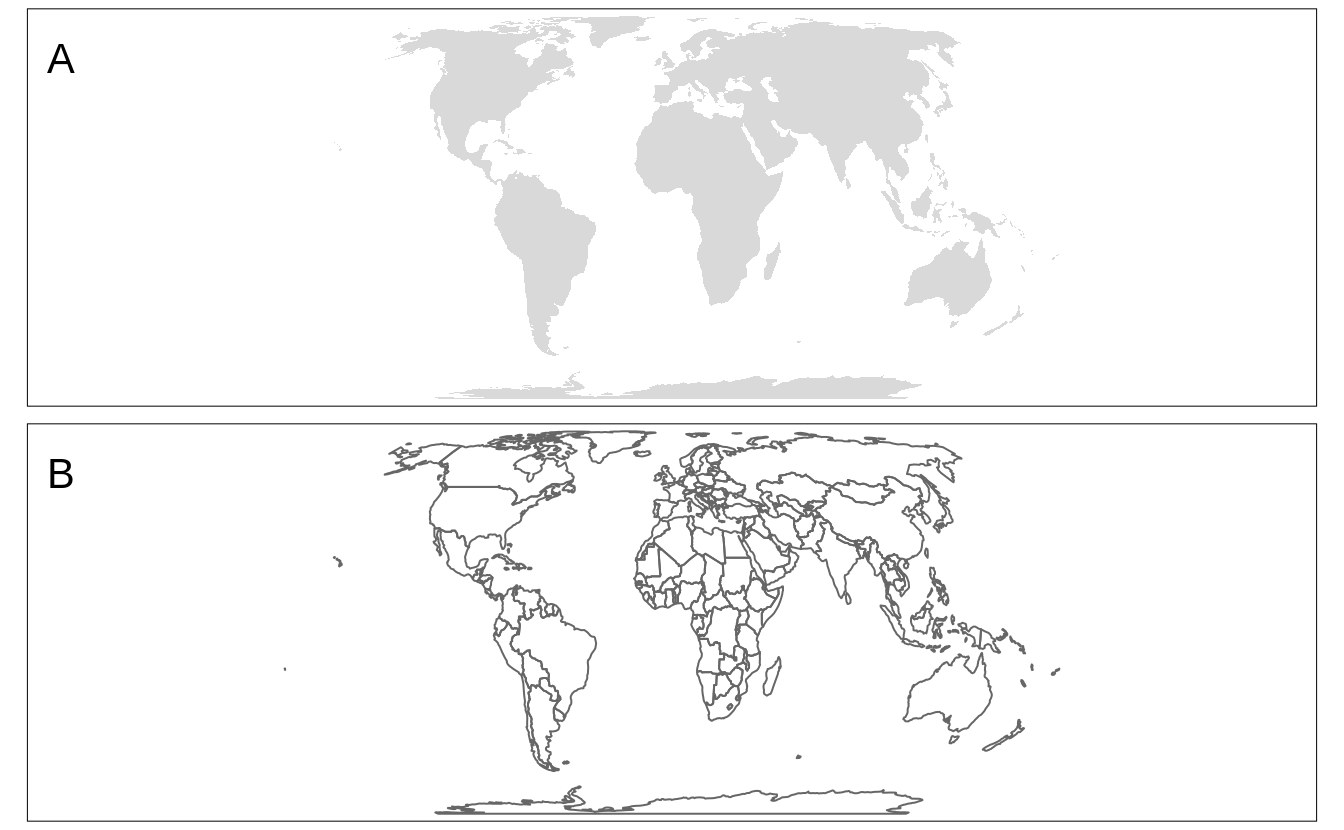
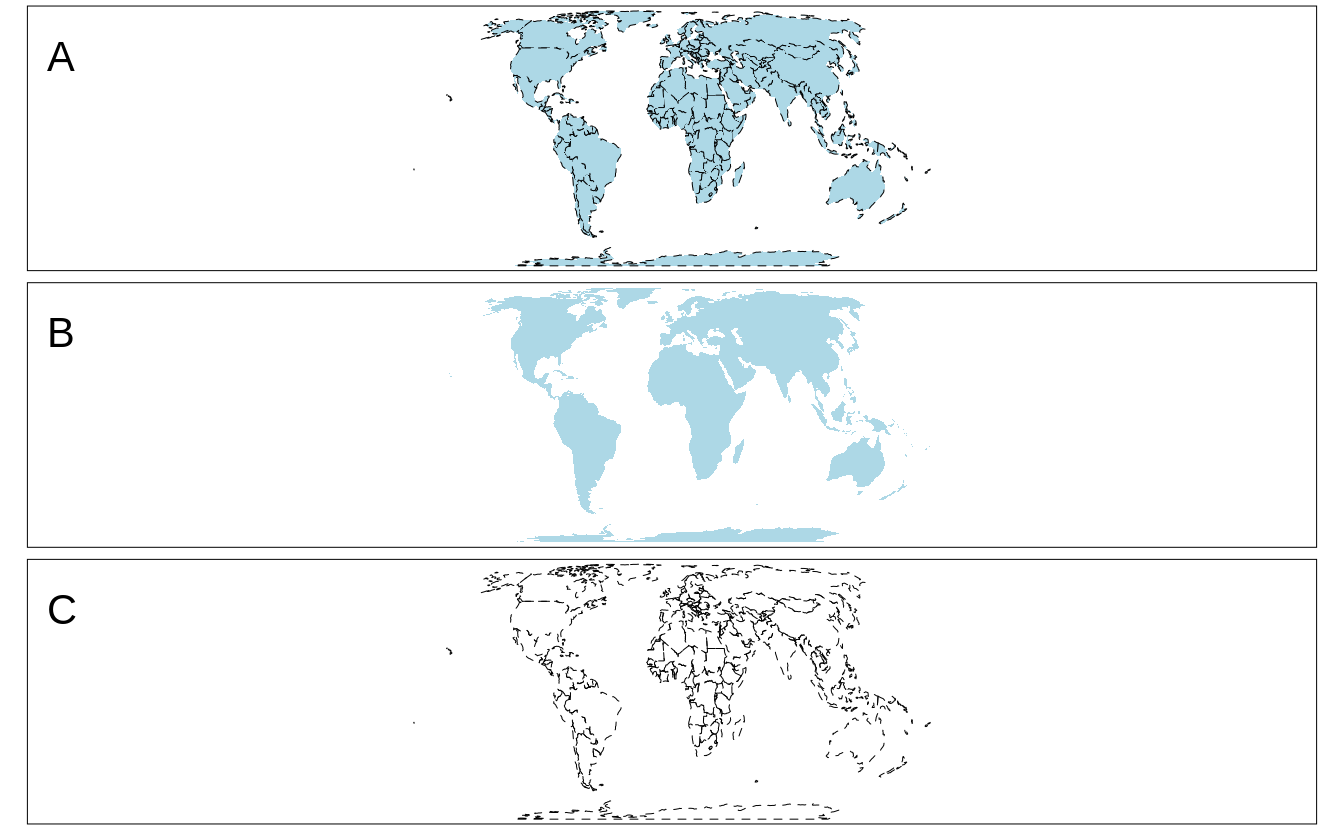
Deploy commit: completes polygon section 368f87c46eaf05076a46bfbb194fcc762384945e

diff --git a/layers.html b/layers.html
@@ -24,7 +24,7 @@
 <meta name="author" content="Martijn Tennekes, Jakub Nowosad" />
 
 
-<meta name="date" content="2020-11-23" />
+<meta name="date" content="2020-11-24" />
 
   <meta name="viewport" content="width=device-width, initial-scale=1" />
   <meta name="apple-mobile-web-app-capable" content="yes" />
@@ -439,34 +439,31 @@ Chapter <a href="visual-variables.html#visual-variables">6</a>, on the other han
 <span id="cb10-5"><a href="layers.html#cb10-5"></a>x =<span class="st"> </span><span class="kw">read_sf</span>(file_path)</span>
 <span id="cb10-6"><a href="layers.html#cb10-6"></a>x =<span class="st"> </span><span class="kw">st_transform</span>(x, <span class="dv">8857</span>)</span></code></pre></div>
 <p>The main function to visualize polygons is <code>tm_polygons()</code>.
-By default, as seen in Figure <a href="layers.html#fig:tmpolygons">5.1</a>:A, it plots areas of polygons in light gray (<code>gray85</code>) and polygons borders in slightly dark gray (<code>gray40</code>).
+By default, it plots areas of polygons in light gray (<code>gray85</code>) and polygons borders in slightly dark gray (<code>gray40</code>).
 <!--JN: where can I find the actual default color values in the code?--></p>
 <div class="sourceCode" id="cb11"><pre class="sourceCode r"><code class="sourceCode r"><span id="cb11-1"><a href="layers.html#cb11-1"></a><span class="kw">tm_shape</span>(x) <span class="op">+</span></span>
 <span id="cb11-2"><a href="layers.html#cb11-2"></a><span class="st">  </span><span class="kw">tm_polygons</span>()</span></code></pre></div>
-<p>Both, colors of areas (polygons’ fillings) and colors of borders can be modified using the <code>col</code> and <code>border.col</code> arguments (Figure <a href="layers.html#fig:tmpolygons">5.1</a>:B).</p>
+<p>Both, colors of areas (polygons’ fillings) and colors of borders can be modified using the <code>col</code> and <code>border.col</code> arguments (Figure <a href="layers.html#fig:tmpolygonsder">5.1</a>:A).</p>
 <div class="sourceCode" id="cb12"><pre class="sourceCode r"><code class="sourceCode r"><span id="cb12-1"><a href="layers.html#cb12-1"></a><span class="kw">tm_shape</span>(x) <span class="op">+</span></span>
-<span id="cb12-2"><a href="layers.html#cb12-2"></a><span class="st">  </span><span class="kw">tm_polygons</span>(<span class="dt">col =</span> <span class="st">&quot;lightblue&quot;</span>, <span class="dt">border.col =</span> <span class="st">&quot;black&quot;</span>)</span></code></pre></div>
-<p>More information on colors, and how they can be applied and modified is in Chapter <a href="visual-variables.html#colors">6.1</a>.</p>
-<div class="figure" style="text-align: center"><span id="fig:tmpolygons"></span>
-<img src="05-layers_files/figure-html/tmpolygons-1.png" alt="Example of: (A) a default map created with 'tm_polygons()', (B) a map created with user-provided colors." width="672" />
-<p class="caption">
-FIGURE 5.1: Example of: (A) a default map created with ‘tm_polygons()’, (B) a map created with user-provided colors.
-</p>
-</div>
-<p>Figure <a href="layers.html#fig:tmpolygonsder">5.2</a>:A
-<!--one example of fill--></p>
+<span id="cb12-2"><a href="layers.html#cb12-2"></a><span class="st">  </span><span class="kw">tm_polygons</span>(<span class="dt">col =</span> <span class="st">&quot;lightblue&quot;</span>, </span>
+<span id="cb12-3"><a href="layers.html#cb12-3"></a>              <span class="dt">border.col =</span> <span class="st">&quot;black&quot;</span>, <span class="dt">lwd =</span> <span class="fl">0.5</span>, <span class="dt">lty =</span> <span class="st">&quot;dashed&quot;</span>)</span></code></pre></div>
+<p>In fact, <code>tm_polygons()</code> is a combination of two separate functions - <code>tm_fill()</code> and <code>tm_borders()</code>.
+The <code>tm_fill()</code> function fills polygons with a fixed color or a color palette representing a selected variable (Figure <a href="layers.html#fig:tmpolygonsder">5.1</a>:B).</p>
 <div class="sourceCode" id="cb13"><pre class="sourceCode r"><code class="sourceCode r"><span id="cb13-1"><a href="layers.html#cb13-1"></a><span class="kw">tm_shape</span>(x) <span class="op">+</span></span>
-<span id="cb13-2"><a href="layers.html#cb13-2"></a><span class="st">  </span><span class="kw">tm_fill</span>()</span></code></pre></div>
-<p>Figure <a href="layers.html#fig:tmpolygonsder">5.2</a>:B
-<!--one example of border--></p>
+<span id="cb13-2"><a href="layers.html#cb13-2"></a><span class="st">  </span><span class="kw">tm_fill</span>(<span class="dt">col =</span> <span class="st">&quot;lightblue&quot;</span>)</span></code></pre></div>
+<p>The <code>tm_borders()</code> function draws the borders of the polygons only (Figure <a href="layers.html#fig:tmpolygonsder">5.1</a>:C).
+It allows to change the colors of borders, their widths, or the lines type.</p>
 <div class="sourceCode" id="cb14"><pre class="sourceCode r"><code class="sourceCode r"><span id="cb14-1"><a href="layers.html#cb14-1"></a><span class="kw">tm_shape</span>(x) <span class="op">+</span></span>
-<span id="cb14-2"><a href="layers.html#cb14-2"></a><span class="st">  </span><span class="kw">tm_borders</span>()</span></code></pre></div>
+<span id="cb14-2"><a href="layers.html#cb14-2"></a><span class="st">  </span><span class="kw">tm_borders</span>(<span class="dt">col =</span> <span class="st">&quot;black&quot;</span>, <span class="dt">lwd =</span> <span class="fl">0.5</span>, <span class="dt">lty =</span> <span class="st">&quot;dashed&quot;</span>)</span></code></pre></div>
+<p>Notice that we have used the <code>col</code> argument in <code>tm_borders()</code>, but <code>border.col</code> in <code>tm_polygons()</code>.
+This is necessary to distinguish between the setting of the fillings color and the borders’ color.</p>
 <div class="figure" style="text-align: center"><span id="fig:tmpolygonsder"></span>
-<img src="05-layers_files/figure-html/tmpolygonsder-1.png" alt="Example of: (A) a map created with 'tm_fill()', (B) a map created with 'tm_borders()'." width="672" />
+<img src="05-layers_files/figure-html/tmpolygonsder-1.png" alt="Example of a map created with: (A) 'tm_polygons()',  (B) 'tm_fill()', (C) 'tm_borders()'." width="672" />
 <p class="caption">
-FIGURE 5.2: Example of: (A) a map created with ‘tm_fill()’, (B) a map created with ‘tm_borders()’.
+FIGURE 5.1: Example of a map created with: (A) ‘tm_polygons()’, (B) ‘tm_fill()’, (C) ‘tm_borders()’.
 </p>
 </div>
+<p>More information on colors, and how they can be applied and modified is explained in detail in Chapter <a href="visual-variables.html#colors">6.1</a>.</p>
 </div>
 <div id="symbols" class="section level2">
 <h2><span class="header-section-number">5.2</span> Symbols</h2>

diff --git a/index.html b/index.html
@@ -24,7 +24,7 @@
 <meta name="author" content="Martijn Tennekes, Jakub Nowosad" />
 
 
-<meta name="date" content="2020-11-23" />
+<meta name="date" content="2020-11-24" />
 
   <meta name="viewport" content="width=device-width, initial-scale=1" />
   <meta name="apple-mobile-web-app-capable" content="yes" />
@@ -231,12 +231,12 @@ code span.wa { color: #60a0b0; font-weight: bold; font-style: italic; } /* Warni
 <div id="header">
 <h1 class="title">Elegant and informative maps with <strong>tmap</strong></h1>
 <p class="author"><em>Martijn Tennekes, Jakub Nowosad</em></p>
-<p class="date"><em>2020-11-23</em></p>
+<p class="date"><em>2020-11-24</em></p>
 </div>
 <div id="welcome" class="section level1 unnumbered">
 <h1>Welcome</h1>
 <p>This is the online home of <em>Elegant and informative maps with <strong>tmap</strong></em>, a book on geospatial data visualization with the R-package tmap.</p>
-<p>This version of the book was built on GH Actions on 2020-11-23.</p>
+<p>This version of the book was built on GH Actions on 2020-11-24.</p>
 <div id="how-to-contribute" class="section level2 unnumbered">
 <h2>How to contribute?</h2>
 

diff --git a/animations.html b/animations.html
@@ -24,7 +24,7 @@
 <meta name="author" content="Martijn Tennekes, Jakub Nowosad" />
 
 
-<meta name="date" content="2020-11-23" />
+<meta name="date" content="2020-11-24" />
 
   <meta name="viewport" content="width=device-width, initial-scale=1" />
   <meta name="apple-mobile-web-app-capable" content="yes" />

diff --git a/geodata.html b/geodata.html
@@ -24,7 +24,7 @@
 <meta name="author" content="Martijn Tennekes, Jakub Nowosad" />
 
 
-<meta name="date" content="2020-11-23" />
+<meta name="date" content="2020-11-24" />
 
   <meta name="viewport" content="width=device-width, initial-scale=1" />
   <meta name="apple-mobile-web-app-capable" content="yes" />

diff --git a/goodmaps.html b/goodmaps.html
@@ -24,7 +24,7 @@
 <meta name="author" content="Martijn Tennekes, Jakub Nowosad" />
 
 
-<meta name="date" content="2020-11-23" />
+<meta name="date" content="2020-11-24" />
 
   <meta name="viewport" content="width=device-width, initial-scale=1" />
   <meta name="apple-mobile-web-app-capable" content="yes" />

diff --git a/interactive.html b/interactive.html
@@ -24,7 +24,7 @@
 <meta name="author" content="Martijn Tennekes, Jakub Nowosad" />
 
 
-<meta name="date" content="2020-11-23" />
+<meta name="date" content="2020-11-24" />
 
   <meta name="viewport" content="width=device-width, initial-scale=1" />
   <meta name="apple-mobile-web-app-capable" content="yes" />

diff --git a/intro.html b/intro.html
@@ -24,7 +24,7 @@
 <meta name="author" content="Martijn Tennekes, Jakub Nowosad" />
 
 
-<meta name="date" content="2020-11-23" />
+<meta name="date" content="2020-11-24" />
 
   <meta name="viewport" content="width=device-width, initial-scale=1" />
   <meta name="apple-mobile-web-app-capable" content="yes" />

diff --git a/layout.html b/layout.html
@@ -24,7 +24,7 @@
 <meta name="author" content="Martijn Tennekes, Jakub Nowosad" />
 
 
-<meta name="date" content="2020-11-23" />
+<meta name="date" content="2020-11-24" />
 
   <meta name="viewport" content="width=device-width, initial-scale=1" />
   <meta name="apple-mobile-web-app-capable" content="yes" />

diff --git a/multiples.html b/multiples.html
@@ -24,7 +24,7 @@
 <meta name="author" content="Martijn Tennekes, Jakub Nowosad" />
 
 
-<meta name="date" content="2020-11-23" />
+<meta name="date" content="2020-11-24" />
 
   <meta name="viewport" content="width=device-width, initial-scale=1" />
   <meta name="apple-mobile-web-app-capable" content="yes" />

diff --git a/nutshell.html b/nutshell.html
@@ -24,7 +24,7 @@
 <meta name="author" content="Martijn Tennekes, Jakub Nowosad" />
 
 
-<meta name="date" content="2020-11-23" />
+<meta name="date" content="2020-11-24" />
 
   <meta name="viewport" content="width=device-width, initial-scale=1" />
   <meta name="apple-mobile-web-app-capable" content="yes" />

diff --git a/options.html b/options.html
@@ -24,7 +24,7 @@
 <meta name="author" content="Martijn Tennekes, Jakub Nowosad" />
 
 
-<meta name="date" content="2020-11-23" />
+<meta name="date" content="2020-11-24" />
 
   <meta name="viewport" content="width=device-width, initial-scale=1" />
   <meta name="apple-mobile-web-app-capable" content="yes" />

diff --git a/othertypes.html b/othertypes.html
@@ -24,7 +24,7 @@
 <meta name="author" content="Martijn Tennekes, Jakub Nowosad" />
 
 
-<meta name="date" content="2020-11-23" />
+<meta name="date" content="2020-11-24" />
 
   <meta name="viewport" content="width=device-width, initial-scale=1" />
   <meta name="apple-mobile-web-app-capable" content="yes" />
